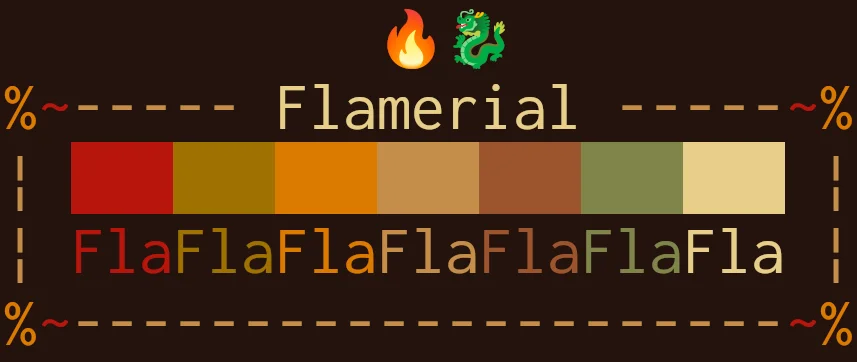
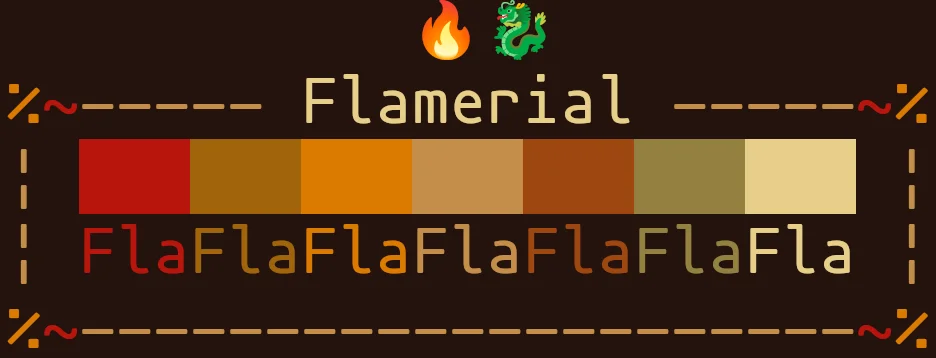
prepare v6.0.0
- Adjust brightness of green, magenta and cyan colors.

diff --git a/ports/hyper/flamerial.js b/ports/hyper/flamerial.js
@@ -8,19 +8,19 @@ modules.exports = {
     colors: {
       black: '#24130e',
       red: '#b8150d',
-      green: '#9e7100',
+      green: '#a1650b',
       yellow: '#db7a00',
       blue: '#c48d49',
-      magenta: '#9c542d',
-      cyan: '#80854b',
+      magenta: '#9e4711',
+      cyan: '#948141',
       white: '#e8cf89',
       lightBlack: '#c48d49',
       lightRed: '#b8150d',
-      lightGreen: '#9e7100',
+      lightGreen: '#a1650b',
       lightYellow: '#db7a00',
       lightBlue: '#c48d49',
-      lightMagenta: '#9c542d',
-      lightCyan: '#80854b',
+      lightMagenta: '#9e4711',
+      lightCyan: '#948141',
       lightWhite: '#e8cf89',
       limeGreen: '#32cd32',
       lightCoral: '#f08080'

diff --git a/ports/st/flamerial.h b/ports/st/flamerial.h
@@ -1,7 +1,7 @@
-static const char *colorname[] = {"#24130e", "#b8150d", "#9e7100", "#db7a00",
-				  "#c48d49", "#9c542d", "#80854b", "#e8cf89",
-				  "#c48d49", "#b8150d", "#9e7100", "#db7a00",
-				  "#c48d49", "#9c542d", "#80854b", "#e8cf89"};
+static const char *colorname[] = {"#24130e", "#b8150d", "#a1650b", "#db7a00",
+				  "#c48d49", "#9e4711", "#948141", "#e8cf89",
+				  "#c48d49", "#b8150d", "#a1650b", "#db7a00",
+				  "#c48d49", "#9e4711", "#948141", "#e8cf89"};
 unsigned int defaultfg = 15;
 unsigned int defaultbg = 0;
 unsigned int defaultcs = 15;

diff --git a/README.md b/README.md
@@ -1,24 +1,24 @@
 <p align="center">
-  <img alt="" src="assets/ornament.webp" />
+	<img alt="" src="assets/ornament.webp" />
 </p>
 <h1 align="center">≥v≥v&ensp;flamerial&ensp;≥v≥v</h1>
 <p align="center">
-  <img alt="" src="https://img.shields.io/github/license/skippyr/flamerial?style=plastic&label=%E2%89%A5%20license&labelColor=%2324130e&color=%23b8150d" />
-    &nbsp;
-  <img alt="" src="https://img.shields.io/github/v/tag/skippyr/flamerial?style=plastic&label=%E2%89%A5%20tag&labelColor=%2324130e&color=%23b8150d" />
-    &nbsp;
-  <img alt="" src="https://img.shields.io/github/commit-activity/t/skippyr/flamerial?style=plastic&label=%E2%89%A5%20commits&labelColor=%2324130e&color=%23b8150d" />
-    &nbsp;
-  <img alt="" src="https://img.shields.io/github/stars/skippyr/flamerial?style=plastic&label=%E2%89%A5%20stars&labelColor=%2324130e&color=%23b8150d" />
+	<img alt="" src="https://img.shields.io/github/license/skippyr/flamerial?style=plastic&label=%E2%89%A5%20license&labelColor=%2324130e&color=%23b8150d" />
+	&nbsp;
+	<img alt="" src="https://img.shields.io/github/v/tag/skippyr/flamerial?style=plastic&label=%E2%89%A5%20tag&labelColor=%2324130e&color=%23b8150d" />
+	&nbsp;
+	<img alt="" src="https://img.shields.io/github/commit-activity/t/skippyr/flamerial?style=plastic&label=%E2%89%A5%20commits&labelColor=%2324130e&color=%23b8150d" />
+	&nbsp;
+	<img alt="" src="https://img.shields.io/github/stars/skippyr/flamerial?style=plastic&label=%E2%89%A5%20stars&labelColor=%2324130e&color=%23b8150d" />
 </p>
 
 ## ❡ About
 
-A 3-bits fiery dark color scheme designed for old-school programmers.
+A 3-bits fiery dark theme for the old-school programmers.
 
 <p align="center">
-  <img alt="" src="assets/preview.webp" width="700" />
-  <p align="center"><sup><strong>Caption:</strong> a preview showing flamerial applied on a terminal. The font used is <a href="https://fonts.google.com/specimen/Inconsolata">inconsolata</a>.</sup></p>
+	<img alt="" src="assets/preview.webp" width="700" />
+	<p align="center"><sup><strong>Caption:</strong> a preview showing Flamerial applied on a terminal. The font used is <a href="https://github.com/madmalik/mononoki">Mononoki Nerd Font</a>.</sup></p>
 </p>
 
 ## ❡ Install
@@ -32,55 +32,55 @@ The remaining ports require exclusive repositories for their contents and instru
 ## ❡ Pallete
 
 <table align="center">
-  <thead>
-    <tr>
-      <th>ANSI</th>
-      <th>Name</th>
-      <th>HEX</th>
-    </tr>
-  </thead>
-  <tbody>
-    <tr>
-      <td>0</td>
-      <td>Black</td>
-      <td><code>#24130e</code></td>
-    </tr>
-    <tr>
-      <td>1</td>
-      <td>Red</td>
-      <td><code>#b8150d</code></td>
-    </tr>
-    <tr>
-      <td>2</td>
-      <td>Green</td>
-      <td><code>#9e7100</code></td>
-    </tr>
-    <tr>
-      <td>3</td>
-      <td>Yellow</td>
-      <td><code>#db7a00</code></td>
-    </tr>
-    <tr>
-      <td>4</td>
-      <td>Blue</td>
-      <td><code>#c48d49</code></td>
-    </tr>
-    <tr>
-      <td>5</td>
-      <td>Magenta</td>
-      <td><code>#9c542d</code></td>
-    </tr>
-    <tr>
-      <td>6</td>
-      <td>Cyan</td>
-      <td><code>#80854b</code></td>
-    </tr>
-    <tr>
-      <td>7</td>
-      <td>White</td>
-      <td><code>#e8cf89</code></td>
-    </tr>
-  </tbody>
+	<thead>
+		<tr>
+			<th>ANSI</th>
+			<th>Name</th>
+			<th>HEX</th>
+		</tr>
+	</thead>
+	<tbody>
+		<tr>
+			<td>0</td>
+			<td>Black</td>
+			<td><code>#24130e</code></td>
+		</tr>
+		<tr>
+			<td>1</td>
+			<td>Red</td>
+			<td><code>#b8150d</code></td>
+		</tr>
+		<tr>
+			<td>2</td>
+			<td>Green</td>
+			<td><code>#a1650b</code></td>
+		</tr>
+		<tr>
+			<td>3</td>
+			<td>Yellow</td>
+			<td><code>#db7a00</code></td>
+		</tr>
+		<tr>
+			<td>4</td>
+			<td>Blue</td>
+			<td><code>#c48d49</code></td>
+		</tr>
+		<tr>
+			<td>5</td>
+			<td>Magenta</td>
+			<td><code>#9e4711</code></td>
+		</tr>
+		<tr>
+			<td>6</td>
+			<td>Cyan</td>
+			<td><code>#948141</code></td>
+		</tr>
+		<tr>
+			<td>7</td>
+			<td>White</td>
+			<td><code>#e8cf89</code></td>
+		</tr>
+	</tbody>
 </table>
 <p align="center"><strong>Caption:</strong> the colors used in the flamerial color scheme with their respective ANSI values.</p>
 

diff --git a/ports/wezterm/README.md b/ports/wezterm/README.md
@@ -1,5 +1,5 @@
 <p align="center">
-  <img alt="" src="../../assets/ornament.webp" />
+	<img alt="" src="../../assets/ornament.webp" />
 </p>
 <h1 align="center">≥v≥v&ensp;flamerial&ensp;≥v≥v</h1>
 <p align="center">wezterm</p>
@@ -17,7 +17,7 @@ cp flamerial.toml ~/.config/wezterm/colors;
 
 ```lua
 return {
-  color_scheme = 'flamerial'
+    color_scheme = 'flamerial'
 }
 ```
 

diff --git a/ports/windows-terminal/README.md b/ports/windows-terminal/README.md
@@ -1,5 +1,5 @@
 <p align="center">
-    <img alt="" src="../../assets/ornament.webp" />
+	<img alt="" src="../../assets/ornament.webp" />
 </p>
 <h1 align="center">≥v≥v&ensp;flamerial&ensp;≥v≥v</h1>
 <p align="center">windows-terminal</p>

diff --git a/ports/xfce4-terminal/README.md b/ports/xfce4-terminal/README.md
@@ -1,5 +1,5 @@
 <p align="center">
-  <img alt="" src="../../assets/ornament.webp" />
+	<img alt="" src="../../assets/ornament.webp" />
 </p>
 <h1 align="center">≥v≥v&ensp;flamerial&ensp;≥v≥v</h1>
 <p align="center">xfce4-terminal</p>

diff --git a/ports/lxterminal/README.md b/ports/lxterminal/README.md
@@ -1,5 +1,5 @@
 <p align="center">
-  <img alt="" src="../../assets/ornament.webp" />
+	<img alt="" src="../../assets/ornament.webp" />
 </p>
 <h1 align="center">≥v≥v&ensp;flamerial&ensp;≥v≥v</h1>
 <p align="center">lxterminal</p>

diff --git a/ports/terminator/README.md b/ports/terminator/README.md
@@ -1,5 +1,5 @@
 <p align="center">
-  <img alt="" src="../../assets/ornament.webp" />
+	<img alt="" src="../../assets/ornament.webp" />
 </p>
 <h1 align="center">≥v≥v&ensp;flamerial&ensp;≥v≥v</h1>
 <p align="center">terminator</p>

diff --git a/ports/xresources/README.md b/ports/xresources/README.md
@@ -1,5 +1,5 @@
 <p align="center">
-  <img alt="" src="../../assets/ornament.webp" />
+	<img alt="" src="../../assets/ornament.webp" />
 </p>
 <h1 align="center">≥v≥v&ensp;flamerial&ensp;≥v≥v</h1>
 <p align="center">xresources</p>

diff --git a/ports/alacritty/README.md b/ports/alacritty/README.md
@@ -1,5 +1,5 @@
 <p align="center">
-  <img alt="" src="../../assets/ornament.webp" />
+	<img alt="" src="../../assets/ornament.webp" />
 </p>
 <h1 align="center">≥v≥v&ensp;flamerial&ensp;≥v≥v</h1>
 <p align="center">alacritty</p>

diff --git a/ports/konsole/README.md b/ports/konsole/README.md
@@ -1,5 +1,5 @@
 <p align="center">
-  <img alt="" src="../../assets/ornament.webp" />
+	<img alt="" src="../../assets/ornament.webp" />
 </p>
 <h1 align="center">≥v≥v&ensp;flamerial&ensp;≥v≥v</h1>
 <p align="center">konsole</p>

diff --git a/ports/bspwm/README.md b/ports/bspwm/README.md
@@ -1,5 +1,5 @@
 <p align="center">
-  <img alt="" src="../../assets/ornament.webp" />
+	<img alt="" src="../../assets/ornament.webp" />
 </p>
 <h1 align="center">≥v≥v&ensp;flamerial&ensp;≥v≥v</h1>
 <p align="center">bspwm</p>
